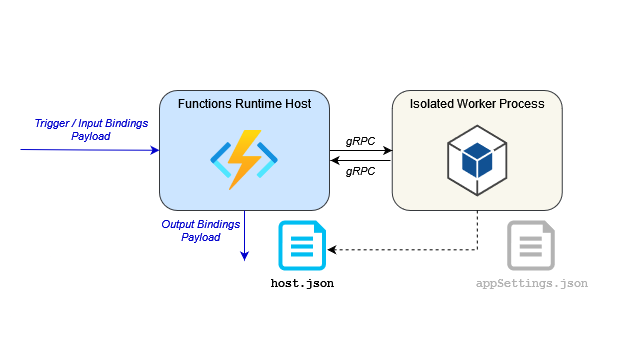
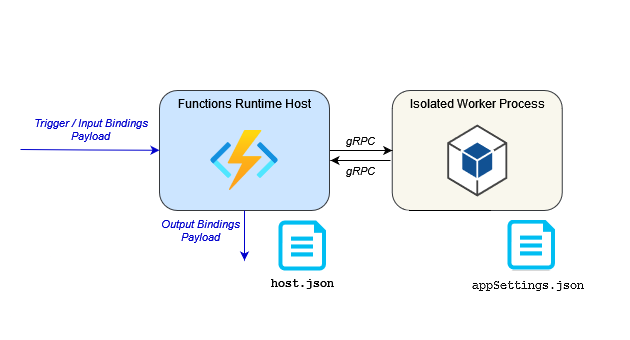
proof-proof reading again !

diff --git a/src/dotnet8/logging/AzFuncUni.Logging/Program.cs b/src/dotnet8/logging/AzFuncUni.Logging/Program.cs
@@ -9,15 +9,6 @@ var builder = FunctionsApplication.CreateBuilder(args);
 
 builder.ConfigureFunctionsWebApplication();
 
-// Reading and configuring log levels and categories
-
-var hostJsonLoggingSection = new ConfigurationBuilder()
-    .AddJsonFile("host.json")
-    .Build()
-    .GetSection("logging");
-
-builder.Logging.AddConfiguration(hostJsonLoggingSection);
-
 // Logging to Application Insights
 
 builder.Services

diff --git a/lessons/dotnet8/logging/README.md b/lessons/dotnet8/logging/README.md
@@ -99,9 +99,10 @@ file and relies entirely on environment variables and application settings in Az
 in this lesson, however, it is often desirable to use a separate file for the log configuration.
 
 As your isolated worker process runs – as its name suggests – in a separate process from the host,
-it needs its own file to store its own settings and configurations for logging. In this lesson, the
-program will load the log (a subset of) the configuration from the `host.json` file,
-making it a shared file for both the host and the worker process itself.
+it needs its own file to store its own settings and configurations for logging. By default, if
+a file named `appsettings.json` is present in the output folder, it can automatically registered
+as a source of configuration for the worker. Additionally, the log levels and categories
+can be automatically configured from the `Logging/LogLevel` configuration section.
 
 In the following section, you will learn the basics of _Application Insights_ and its _Live Metrics_ dashboard.
 
@@ -138,13 +139,40 @@ In the following section, you will learn the basics of _Application Insights_ an
             "enableLiveMetrics": true
         },
         "logLevel": {
-            "default": "Trace"
+            "default": "Warning"
         }
     }
 }
 ```
 
-Our changes enable integration with the _Live Metrics_ dashboard associated with the _Application Insights_ resource that we will refer to from now on as “App Insights”, for short. We also have lowered the default _Log Level_ to `Trace` so that virtually every log emitted from the application goes out unfiltered.
+Our changes enable integration with the _Live Metrics_ dashboard associated with the _Application Insights_ resource that we will refer to from now on as “App Insights”, for short.
+
+6. At the root of your project, create a new file named `appsettings.json` with the following content:
+
+```json
+{
+    "Logging": {
+        "LogLevel": {
+            "Default": "Trace",
+        }
+    }
+}
+```
+
+> 📝 **Tip** - Please, make sure to name the file `appsettings.json` exactly.
+
+7. Open the `AzFuncUni.Logging.csproj` project file, locate the `<None Update="host.json">` XML start element
+somewhat towards the end of the file and add the following – mostly identical section for `appsettings.json` like so:
+
+```xml
+    <None Update="appsettings.json">
+      <CopyToOutputDirectory>PreserveNewest</CopyToOutputDirectory>
+    </None>
+```
+
+> 📝 **Tip** - Please, note that this section is very similar to the one that copies the `host.json` file to the output folder.
+
+The `appsettings.json` configuration file defines the default level for logging to `Trace` which allows virtually all logs emitted from your worker process to be sent to App Insights.
 
 However, logging to App Insights is not enabled by default.
 
@@ -152,7 +180,7 @@ Furthermore, in an effort to help manage your infrastructure costs efficiently, 
 
 Logging to Application Insights using lower severity requires an explicit override.
 
-6. To fix this, install the [required packages](https://learn.microsoft.com/fr-fr/azure/azure-functions/dotnet-isolated-process-guide?tabs=hostbuilder%2Cwindows#install-packages) as follows:
+8. To fix this, install the [required packages](https://learn.microsoft.com/fr-fr/azure/azure-functions/dotnet-isolated-process-guide?tabs=hostbuilder%2Cwindows#install-packages) as follows:
 
     ```pwsh
     dotnet add package Microsoft.ApplicationInsights.WorkerService
@@ -161,7 +189,7 @@ Logging to Application Insights using lower severity requires an explicit overri
 
     > 📝 **Tip** - The `Microsoft.ApplicationInsights.WorkerService` adjusts logging behavior of the worker (_i.e_ your Function App) to no longer emit logs through the host application (_i.e_ the Functions Runtime host controlling your Function App). Once installed, logs are sent directly to application insights from the worker process instead.
 
-7. Open the `Program.cs` and add some using directives at the top of the file:
+9. Open the `Program.cs` and add some using directives at the top of the file:
 
     ```c#
     using Microsoft.Azure.Functions.Worker;
@@ -172,7 +200,7 @@ Logging to Application Insights using lower severity requires an explicit overri
     using Microsoft.Extensions.Logging;
     ```
 
-8. Further down in `Program.cs`, replace the commented code with the relevant portion of the code.
+10. Further down in `Program.cs`, replace the commented code with the relevant portion of the code.
 
     *Replace*
 
@@ -186,15 +214,6 @@ Logging to Application Insights using lower severity requires an explicit overri
     *With*
 
     ```c#
-    // Reading and configuring log levels and categories
-    
-    var hostJsonLoggingSection = new ConfigurationBuilder()
-        .AddJsonFile("host.json")
-        .Build()
-        .GetSection("logging");
-    
-    builder.Logging.AddConfiguration(hostJsonLoggingSection);
-    
     // Logging to Application Insights
     
     builder.Services
@@ -214,17 +233,17 @@ Logging to Application Insights using lower severity requires an explicit overri
         });
     ```
 
-9. Compile and run the application again.
+11. Compile and run the application again.
 
-10. From the Azure Portal, navigate to App Insights and display the _Live Metrics_ dashboard. You can find `Live Metrics` as one of the options available on the left pane, under the `Investigate` topic.
+12. From the Azure Portal, navigate to App Insights and display the _Live Metrics_ dashboard. You can find `Live Metrics` as one of the options available on the left pane, under the `Investigate` topic.
 
-Wait a couple dozen of seconds for the web page to refresh and display the dashboard.
+Wait for ten to twenty seconds for the web page to refresh and display the dashboard.
 
 > 📝 **Tip** - Some ad blockers are known to prevent the dashboard from displaying. If you have μBlock₀, you may see a `Data is temporarily inaccessible` red banner, for instance. Make sure to disable your ad blocker for the _Live Metrics_ page to display properly.
 
 Once the dashboard displays, notice that your machine is listed as one of the servers currently connected to App Insights.
 
-11. On your local machine, call the HTTP-triggered function a couple of times.
+13. On your local machine, call the HTTP-triggered function a couple of times.
 
     ```http
     POST http://localhost:7071/api/HelloWorldHttpTrigger
@@ -240,7 +259,7 @@ Details from the selected log are displayed on the lower right pane. In particul
 
 Along with their messages, the _Severity Level_ and log _Category_ are amongst the most important properties from the collected logs. In the next section, you will dive into those properties in a bit more details.
 
-12. Hit <kbd>Ctrl</kbd>+<kbd>C</kbd> from the Console of the running application to stop its execution.
+14. Hit <kbd>Ctrl</kbd>+<kbd>C</kbd> from the Console of the running application to stop its execution.
 
 ## 3. Log levels and categories
 
